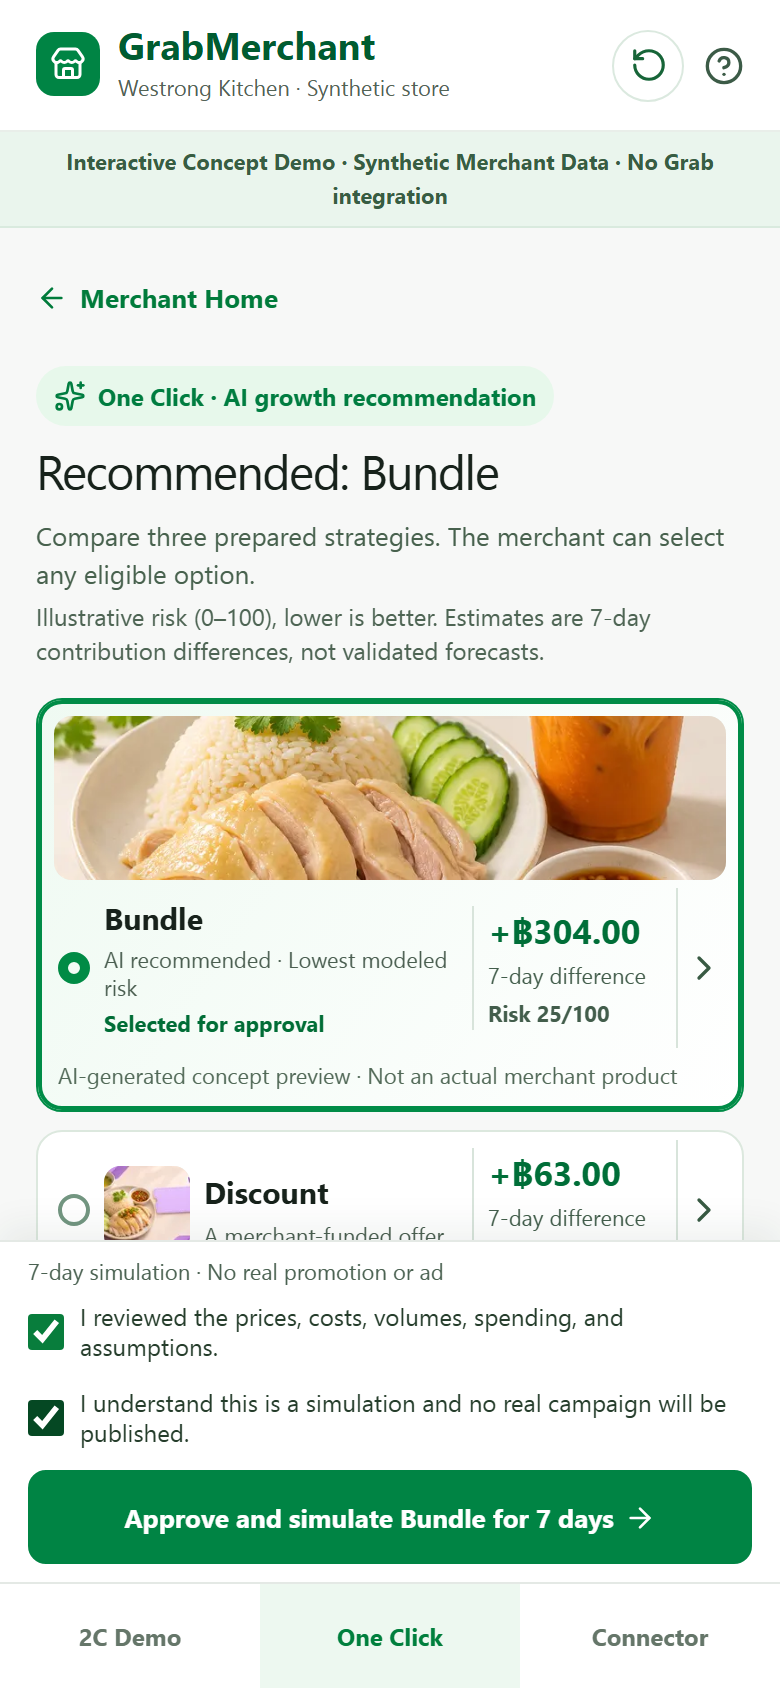
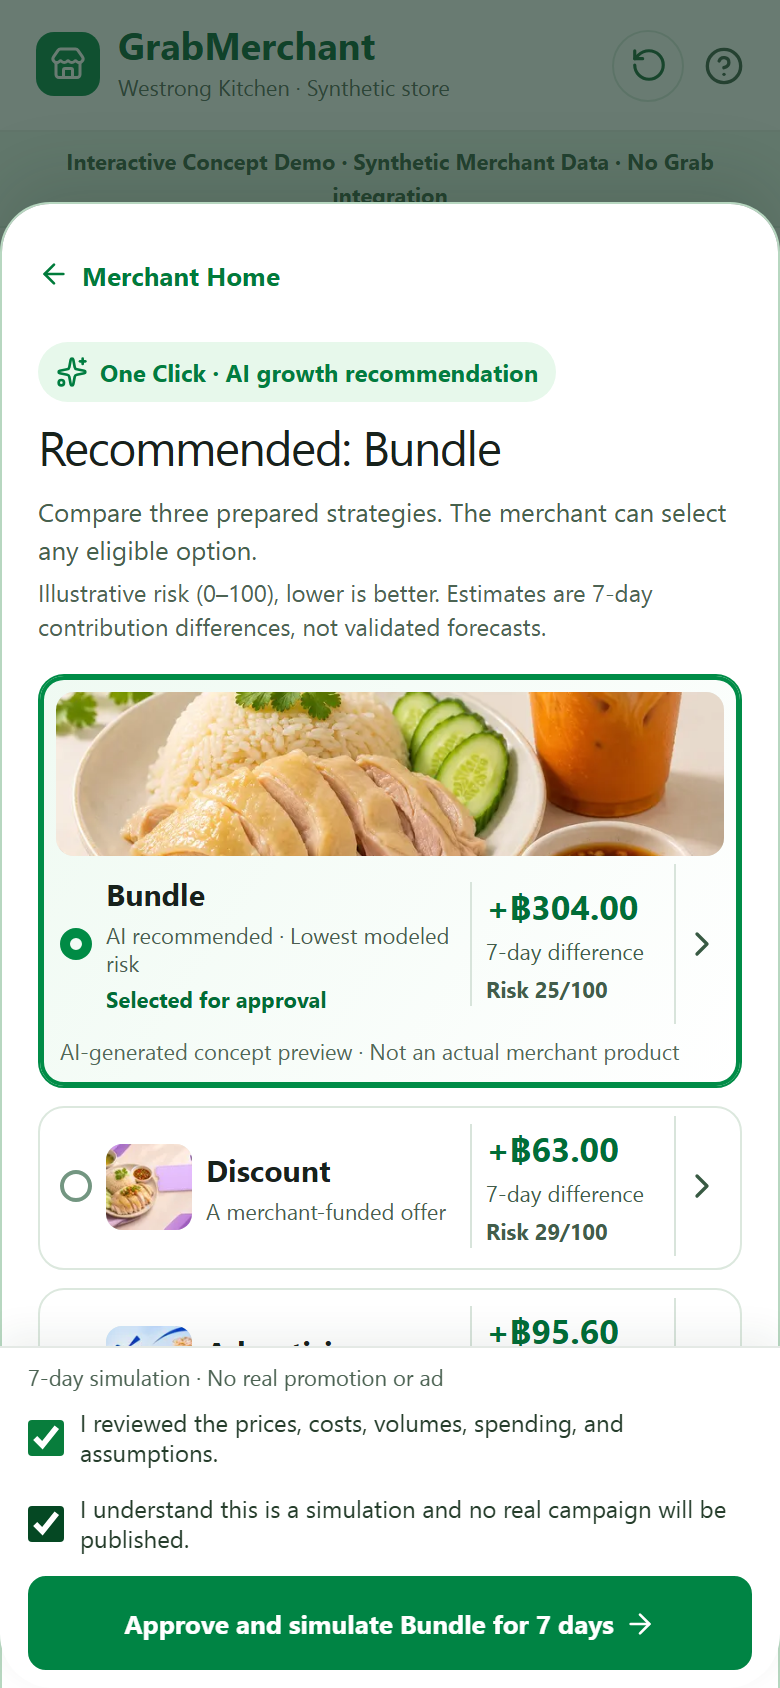
Present judge recommendation in merchant bottom sheet

diff --git a/frontend/components/judge-demo.tsx b/frontend/components/judge-demo.tsx
@@ -1,6 +1,6 @@
 "use client";
 
-import { useEffect, useState } from "react";
+import { useEffect, useRef, useState } from "react";
 import { ArrowLeft, ArrowRight, Check, CheckCircle2, ChevronRight, CircleHelp, Link2, RotateCcw, ShieldCheck, Sparkles, Store, X } from "lucide-react";
 import { StrategyVisual } from "@/components/strategy-visual";
 import { baht, impactTone } from "@/lib/format";
@@ -15,8 +15,23 @@ const prompt = "Which menu items are performing best, and what promotion could I
 export function JudgeDemo() {
   const [state, setState] = useState<DemoState>(initialDemoState);
   const [loaded, setLoaded] = useState(false);
+  const recommendationRef = useRef<HTMLDivElement>(null);
   useEffect(() => { setState(loadDemoState()); setLoaded(true); }, []);
   useEffect(() => { if (loaded) saveDemoState(state); }, [loaded, state]);
+  useEffect(() => {
+    if (state.view !== "recommendation") return;
+    recommendationRef.current?.querySelector<HTMLButtonElement>("button")?.focus();
+    function onKeyDown(event: KeyboardEvent) {
+      if (event.key === "Escape") { event.preventDefault(); setState(old => ({ ...old, view: "c1-home" })); return; }
+      if (event.key !== "Tab") return;
+      const focusable = [...document.querySelectorAll<HTMLElement>(".judge-recommendation button:not(:disabled), .judge-approval-footer input:not(:disabled), .judge-approval-footer button:not(:disabled)")];
+      if (!focusable.length) return;
+      if (event.shiftKey && document.activeElement === focusable[0]) { event.preventDefault(); focusable.at(-1)?.focus(); }
+      else if (!event.shiftKey && document.activeElement === focusable.at(-1)) { event.preventDefault(); focusable[0].focus(); }
+    }
+    document.addEventListener("keydown", onKeyDown);
+    return () => document.removeEventListener("keydown", onKeyDown);
+  }, [state.view]);
   const update = (change: (old: DemoState) => DemoState) => setState(change);
   const go = (view: DemoView) => update(old => ({ ...old, view }));
   const chosen = evaluation.strategies.find(item => item.strategy_id === state.c1.selected)!;
@@ -49,9 +64,9 @@ export function JudgeDemo() {
       <main id="main-content" className="judge-main" key={state.view}>
         {state.view === "home" && <div className="judge-page judge-landing"><div className="judge-landing-hero"><span className="judge-eyebrow">THE 2C STRATEGY</span><h1>One Intelligence Foundation.<br />Two Ways to Reduce Merchant Friction.</h1><p>Explore two independent concepts inside a GrabMerchant-inspired experience.</p></div><button type="button" className="judge-entry" onClick={() => go("c1-home")}><span className="judge-entry-icon"><Sparkles size={25} /></span><span><strong>C1 · One Click</strong><small>AI recommendations become merchant decisions.</small></span><ArrowRight size={20} /></button><button type="button" className="judge-entry" onClick={() => go("connections")}><span className="judge-entry-icon"><Link2 size={25} /></span><span><strong>C2 · Connector</strong><small>Merchant capabilities in a familiar AI workspace.</small></span><ArrowRight size={20} /></button><p className="judge-disclosure">Unofficial synthetic prototype. No real account, provider connection, or campaign execution.</p></div>}
 
-        {state.view === "c1-home" && <div className="judge-page"><Back onClick={() => go("home")} label="2C demo" /><span className="judge-eyebrow">ONE CLICK · DISCOVER</span><h1>For your store</h1><p className="judge-lead">An AI-prepared growth opportunity for Westrong Kitchen.</p><div className="judge-metric-row"><div><small>Modeled orders / 7 days</small><strong>{evaluation.baseline.estimated_units}</strong></div><div><small>Baseline contribution</small><strong>{baht(evaluation.baseline.estimated_7d_contribution)}</strong></div></div><div className="judge-opportunity"><span><Sparkles size={17} /> New recommendation</span><h2>Try a chicken rice + drink bundle</h2><p>Compare three modeled strategies before choosing and approving a simulated trial.</p><strong>{baht(recommendation.estimated_difference, true)} estimated 7-day contribution difference</strong><button type="button" className="primary-button" onClick={() => go(state.c1.resultReady ? "results" : state.c1.approved ? "processing" : "recommendation")}>{state.c1.resultReady ? "See simulated result" : state.c1.approved ? "Continue simulated mission" : "View recommendation"} <ArrowRight size={17} /></button></div><p className="judge-disclosure">Illustrative synthetic inputs · Contribution is not net profit · No real promotion is published.</p></div>}
+        {(state.view === "c1-home" || state.view === "recommendation") && <div className="judge-page"><Back onClick={() => go("home")} label="2C demo" /><span className="judge-eyebrow">ONE CLICK · DISCOVER</span><h1>For your store</h1><p className="judge-lead">An AI-prepared growth opportunity for Westrong Kitchen.</p><div className="judge-metric-row"><div><small>Modeled orders / 7 days</small><strong>{evaluation.baseline.estimated_units}</strong></div><div><small>Baseline contribution</small><strong>{baht(evaluation.baseline.estimated_7d_contribution)}</strong></div></div><div className="judge-opportunity"><span><Sparkles size={17} /> New recommendation</span><h2>Try a chicken rice + drink bundle</h2><p>Compare three modeled strategies before choosing and approving a simulated trial.</p><strong>{baht(recommendation.estimated_difference, true)} estimated 7-day contribution difference</strong><button type="button" className="primary-button" onClick={() => go(state.c1.resultReady ? "results" : state.c1.approved ? "processing" : "recommendation")}>{state.c1.resultReady ? "See simulated result" : state.c1.approved ? "Continue simulated mission" : "View recommendation"} <ArrowRight size={17} /></button></div><p className="judge-disclosure">Illustrative synthetic inputs · Contribution is not net profit · No real promotion is published.</p></div>}
 
-        {state.view === "recommendation" && <div className="judge-recommendation"><div className="judge-sheet-heading"><Back onClick={() => go("c1-home")} label="Merchant Home" /><span className="strategy-sheet-kicker"><Sparkles size={16} /> One Click · AI growth recommendation</span><h1>Recommended: {strategyNames[recommendation.strategy_id]}</h1><p>Compare three prepared strategies. The merchant can select any eligible option.</p><small>Illustrative risk (0–100), lower is better. Estimates are 7-day contribution differences, not validated forecasts.</small></div><div className="judge-cards">{ordered.map(item => <JudgeStrategyCard key={item.strategy_id} item={item} selected={state.c1.selected === item.strategy_id} recommended={item.strategy_id === evaluation.recommended_strategy_id} onSelect={() => select(item.strategy_id)} onDetails={() => details(item.strategy_id)} />)}</div><div className="judge-recommendation-note"><ShieldCheck size={17} /><span>AI recommends Bundle for its lowest illustrative modeled risk. <strong>You selected {strategyNames[chosen.strategy_id]}.</strong></span></div><div className="judge-inline-actions"><button type="button" onClick={() => go("comparison")}>Compare details</button><button type="button" onClick={() => go("c1-home")}>Review later</button></div></div>}
+        {state.view === "recommendation" && <div ref={recommendationRef} className="judge-recommendation" role="dialog" aria-modal="true" aria-label="One Click recommendation" aria-owns="judge-consent-footer"><div className="judge-sheet-heading"><Back onClick={() => go("c1-home")} label="Merchant Home" /><span className="strategy-sheet-kicker"><Sparkles size={16} /> One Click · AI growth recommendation</span><h1>Recommended: {strategyNames[recommendation.strategy_id]}</h1><p>Compare three prepared strategies. The merchant can select any eligible option.</p><small>Illustrative risk (0–100), lower is better. Estimates are 7-day contribution differences, not validated forecasts.</small></div><div className="judge-cards">{ordered.map(item => <JudgeStrategyCard key={item.strategy_id} item={item} selected={state.c1.selected === item.strategy_id} recommended={item.strategy_id === evaluation.recommended_strategy_id} onSelect={() => select(item.strategy_id)} onDetails={() => details(item.strategy_id)} />)}</div><div className="judge-recommendation-note"><ShieldCheck size={17} /><span>AI recommends Bundle for its lowest illustrative modeled risk. <strong>You selected {strategyNames[chosen.strategy_id]}.</strong></span></div><div className="judge-inline-actions"><button type="button" onClick={() => go("comparison")}>Compare details</button><button type="button" onClick={() => go("c1-home")}>Review later</button></div></div>}
 
         {state.view === "comparison" && <div className="judge-page"><Back onClick={() => go("recommendation")} label="Recommendation" /><span className="judge-eyebrow">OPTIONAL COMPARISON</span><h1>Compare strategies</h1><p className="judge-lead">Same 40-order baseline and 7-day synthetic assumptions for each option.</p><div className="judge-compare-table" role="table" aria-label="Three-strategy financial comparison"><div className="judge-compare-head" role="row"><span>Strategy</span><span>Contribution</span><span>Risk</span></div>{ordered.map(item => <div className="judge-compare-row" role="row" key={item.strategy_id}><strong>{strategyNames[item.strategy_id]}{state.c1.selected === item.strategy_id ? " · Selected" : ""}</strong><span>{baht(item.estimated_7d_contribution)}<small className={`impact-${impactTone(item.estimated_difference)}`}>{baht(item.estimated_difference, true)} vs baseline</small></span><b>{item.risk_score}/100</b></div>)}</div><p className="judge-disclosure">Illustrative risk score, not a validated probability. Higher modeled contribution does not guarantee actual sales.</p><button type="button" className="primary-button" onClick={() => go("recommendation")}>Back to selection and approval <ArrowRight size={17} /></button></div>}
 
@@ -65,7 +80,7 @@ export function JudgeDemo() {
 
         {state.view === "workspace" && <div className="judge-page"><Back onClick={() => go("connections")} label="AI Connections" /><span className="judge-eyebrow">SIMULATED EXTERNAL AI WORKSPACE</span><h1>{state.c2.client ?? "AI"} concept workspace</h1><p className="judge-lead">An illustrative conversation, separate from any real provider account.</p><div className="judge-status"><ShieldCheck size={20} /><span><strong>{state.c2.status === "connected" ? "Connected — Simulated" : "No active connection"}</strong><small>{state.c2.grantedScopes.length} read-only permissions currently granted</small></span></div><div className="judge-chat-question"><strong>Merchant question</strong><p>{prompt}</p></div><button type="button" className="primary-button" disabled={state.c2.status !== "connected"} onClick={() => update(old => ({ ...old, c2: { ...old.c2, asked: true, draftReviewed: false } }))}>Ask simulated AI <ArrowRight size={17} /></button>{state.c2.asked && <><h2>Capability access</h2><p className="judge-disclosure">Illustrative read-only MCP tool calls. Results below are filtered by the permissions you granted.</p><div className="judge-tool-list">{scopeDefinitions.map(scope => <div key={scope.id}><code>{scope.tool}</code><strong className={granted(scope.id) ? "judge-allowed" : "judge-blocked"}>{granted(scope.id) ? "Authorized" : "Permission required"}</strong></div>)}</div>{granted("sales") && <div className="judge-insight"><h3>Sales summary · synthetic</h3><p>{dashboard.today.orders} orders and {baht(dashboard.today.gmv)} GMV on the demo date. Estimated contribution: {baht(dashboard.today.estimated_contribution)}.</p></div>}{granted("menu") && <div className="judge-insight"><h3>Top menu performance · synthetic</h3>{dashboard.top_items.map(item => <p key={item.menu_item_id}>{item.name}: {item.units} units, {baht(item.gmv)} GMV.</p>)}</div>}{granted("missions") && <div className="judge-insight"><h3>Merchant mission · synthetic</h3><p>{state.c1.approved ? `${strategyNames[state.c1.approved]} simulated mission ${state.c1.reviewed ? "reviewed" : "approved"}.` : "One Click opportunity proposed; no strategy approved yet."}</p></div>}{granted("outcomes") && <div className="judge-insight"><h3>Mission outcome · simulated</h3><p>{approved && state.c1.resultReady ? `${strategyNames[approved.strategy_id]} models ${baht(approved.estimated_7d_contribution)} contribution; ${state.c1.reviewed ? "result reviewed" : "result not reviewed"}.` : "No simulated result has been generated in this browser session."}</p></div>}{(!granted("sales") || !granted("menu")) && <div className="judge-permission-warning"><ShieldCheck size={18} /><span>Sales Data and Menu Performance are required for this question. Restricted data is hidden. <button type="button" onClick={() => go("connections")}>Review permissions</button></span></div>}{granted("sales") && granted("menu") && <div className="judge-draft"><span className="judge-eyebrow">CAMPAIGN DRAFT · NOT PUBLISHED</span><h3>Prepare a meal-and-drink offer</h3><dl><div><dt>Objective</dt><dd>Explore growth from popular menu items</dd></div><div><dt>Selected menu</dt><dd>{menus.find(item => item.name === "Chicken Rice")?.name} + {menus.find(item => item.name === "Thai Iced Tea")?.name}</dd></div><div><dt>Proposed promotion</dt><dd>Concept bundle creative for merchant review</dd></div><div><dt>Maximum budget</dt><dd>฿500, as requested by the merchant</dd></div><div><dt>Expected outcome</dt><dd>No numeric forecast from this question; validate costs and demand before proceeding</dd></div><div><dt>Status</dt><dd>{state.c2.draftReviewed ? "Concept approval recorded — no real campaign launched." : "Requires separate merchant approval"}</dd></div></dl><button type="button" className="secondary-button" onClick={() => update(old => ({ ...old, c2: { ...old.c2, draftReviewed: true } }))} disabled={state.c2.draftReviewed}>{state.c2.draftReviewed ? "Concept reviewed" : "Review and confirm concept only"}</button></div>}</>}{state.c2.status === "connected" && <button type="button" className="judge-danger-button" onClick={revoke}>Revoke access</button>}<p className="judge-disclosure">No real AI request, tool call, campaign creation, or publication occurs.</p></div>}
       </main>
-      {state.view === "recommendation" && <div className="judge-approval-footer"><small>7-day simulation · No real promotion or ad</small><label><input type="checkbox" checked={state.c1.consentInputs} onChange={event => update(old => ({ ...old, c1: { ...old.c1, consentInputs: event.target.checked } }))} /><span>I reviewed the prices, costs, volumes, spending, and assumptions.</span></label><label><input type="checkbox" checked={state.c1.consentSimulation} onChange={event => update(old => ({ ...old, c1: { ...old.c1, consentSimulation: event.target.checked } }))} /><span>I understand this is a simulation and no real campaign will be published.</span></label><button type="button" className="primary-button" disabled={!state.c1.consentInputs || !state.c1.consentSimulation || Boolean(state.c1.approved)} onClick={() => update(old => ({ ...old, view: "processing", c1: { ...old.c1, approved: old.c1.selected, resultReady: false, reviewed: false } }))}>{state.c1.approved ? "Mission already approved" : `Approve and simulate ${strategyNames[chosen.strategy_id]} for 7 days`} <ArrowRight size={16} /></button></div>}
+      {state.view === "recommendation" && <div id="judge-consent-footer" className="judge-approval-footer"><small>7-day simulation · No real promotion or ad</small><label><input type="checkbox" checked={state.c1.consentInputs} onChange={event => update(old => ({ ...old, c1: { ...old.c1, consentInputs: event.target.checked } }))} /><span>I reviewed the prices, costs, volumes, spending, and assumptions.</span></label><label><input type="checkbox" checked={state.c1.consentSimulation} onChange={event => update(old => ({ ...old, c1: { ...old.c1, consentSimulation: event.target.checked } }))} /><span>I understand this is a simulation and no real campaign will be published.</span></label><button type="button" className="primary-button" disabled={!state.c1.consentInputs || !state.c1.consentSimulation || Boolean(state.c1.approved)} onClick={() => update(old => ({ ...old, view: "processing", c1: { ...old.c1, approved: old.c1.selected, resultReady: false, reviewed: false } }))}>{state.c1.approved ? "Mission already approved" : `Approve and simulate ${strategyNames[chosen.strategy_id]} for 7 days`} <ArrowRight size={16} /></button></div>}
       <nav className="judge-bottom-nav" aria-label="Demo navigation"><button type="button" className={state.view === "home" ? "is-current" : ""} onClick={() => go("home")}>2C Demo</button><button type="button" className={state.view.startsWith("c1") || ["recommendation", "comparison", "details", "processing", "results"].includes(state.view) ? "is-current" : ""} onClick={() => go("c1-home")}>One Click</button><button type="button" className={["connections", "workspace"].includes(state.view) ? "is-current" : ""} onClick={() => go("connections")}>Connector</button></nav>
     </div><p className="judge-footer">GrabSpark 2026 · Unofficial concept preview</p>
   </div>;

diff --git a/frontend/app/judge-demo.css b/frontend/app/judge-demo.css
@@ -2,7 +2,12 @@
 .judge-topline { display:flex; align-items:center; justify-content:space-between; gap:16px; width:min(960px,100%); margin:0 0 12px; color:#16452a; font-size:13px; font-weight:800; }
 .judge-topline span,.judge-topline button { display:inline-flex; align-items:center; gap:7px; }
 .judge-topline button { min-height:36px; border:1px solid #b7d4bf; border-radius:9px; background:#fff; padding:7px 11px; color:#16452a; font-size:12px; font-weight:750; cursor:pointer; }
-.judge-frame { display:flex; flex-direction:column; width:min(430px,100%); height:min(920px,calc(100dvh - 96px)); min-height:min(610px,calc(100dvh - 32px)); overflow:hidden; border:1px solid #d9e1db; border-radius:28px; background:#f7f8f7; box-shadow:0 24px 70px #203b282e; }
+.judge-frame { position:relative; display:flex; flex-direction:column; width:min(430px,100%); height:min(920px,calc(100dvh - 96px)); min-height:min(610px,calc(100dvh - 32px)); overflow:hidden; border:1px solid #d9e1db; border-radius:28px; background:#f7f8f7; box-shadow:0 24px 70px #203b282e; }
+.judge-frame:has(.judge-recommendation)::before { position:absolute; inset:0; z-index:5; background:#183426a6; content:""; }
+.judge-frame:has(.judge-recommendation) .judge-header,.judge-frame:has(.judge-recommendation) .judge-ribbon,.judge-frame:has(.judge-recommendation) .judge-bottom-nav { pointer-events:none; }
+.judge-frame:has(.judge-recommendation) .judge-main { overflow:hidden; }
+.judge-frame:has(.judge-recommendation) .judge-recommendation { position:absolute; inset:12% 0 0; z-index:6; overflow-y:auto; padding-bottom:250px; border:1px solid #b7d7c0; border-bottom:0; border-radius:25px 25px 0 0; background:#fff; box-shadow:0 -12px 35px #14291b26; scrollbar-width:thin; }
+.judge-frame:has(.judge-recommendation) .judge-approval-footer { position:absolute; right:0; bottom:0; left:0; z-index:7; border-radius:0 0 27px 27px; }
 .judge-header { flex:0 0 auto; height:66px; display:flex; align-items:center; justify-content:space-between; padding:0 18px; background:#fff; border-bottom:1px solid #e9eee9; }
 .judge-brand { display:flex; align-items:center; gap:9px; border:0; padding:0; color:var(--green-deep); background:none; text-align:left; cursor:pointer; }
 .judge-brand > span:last-child { display:flex; flex-direction:column; }
